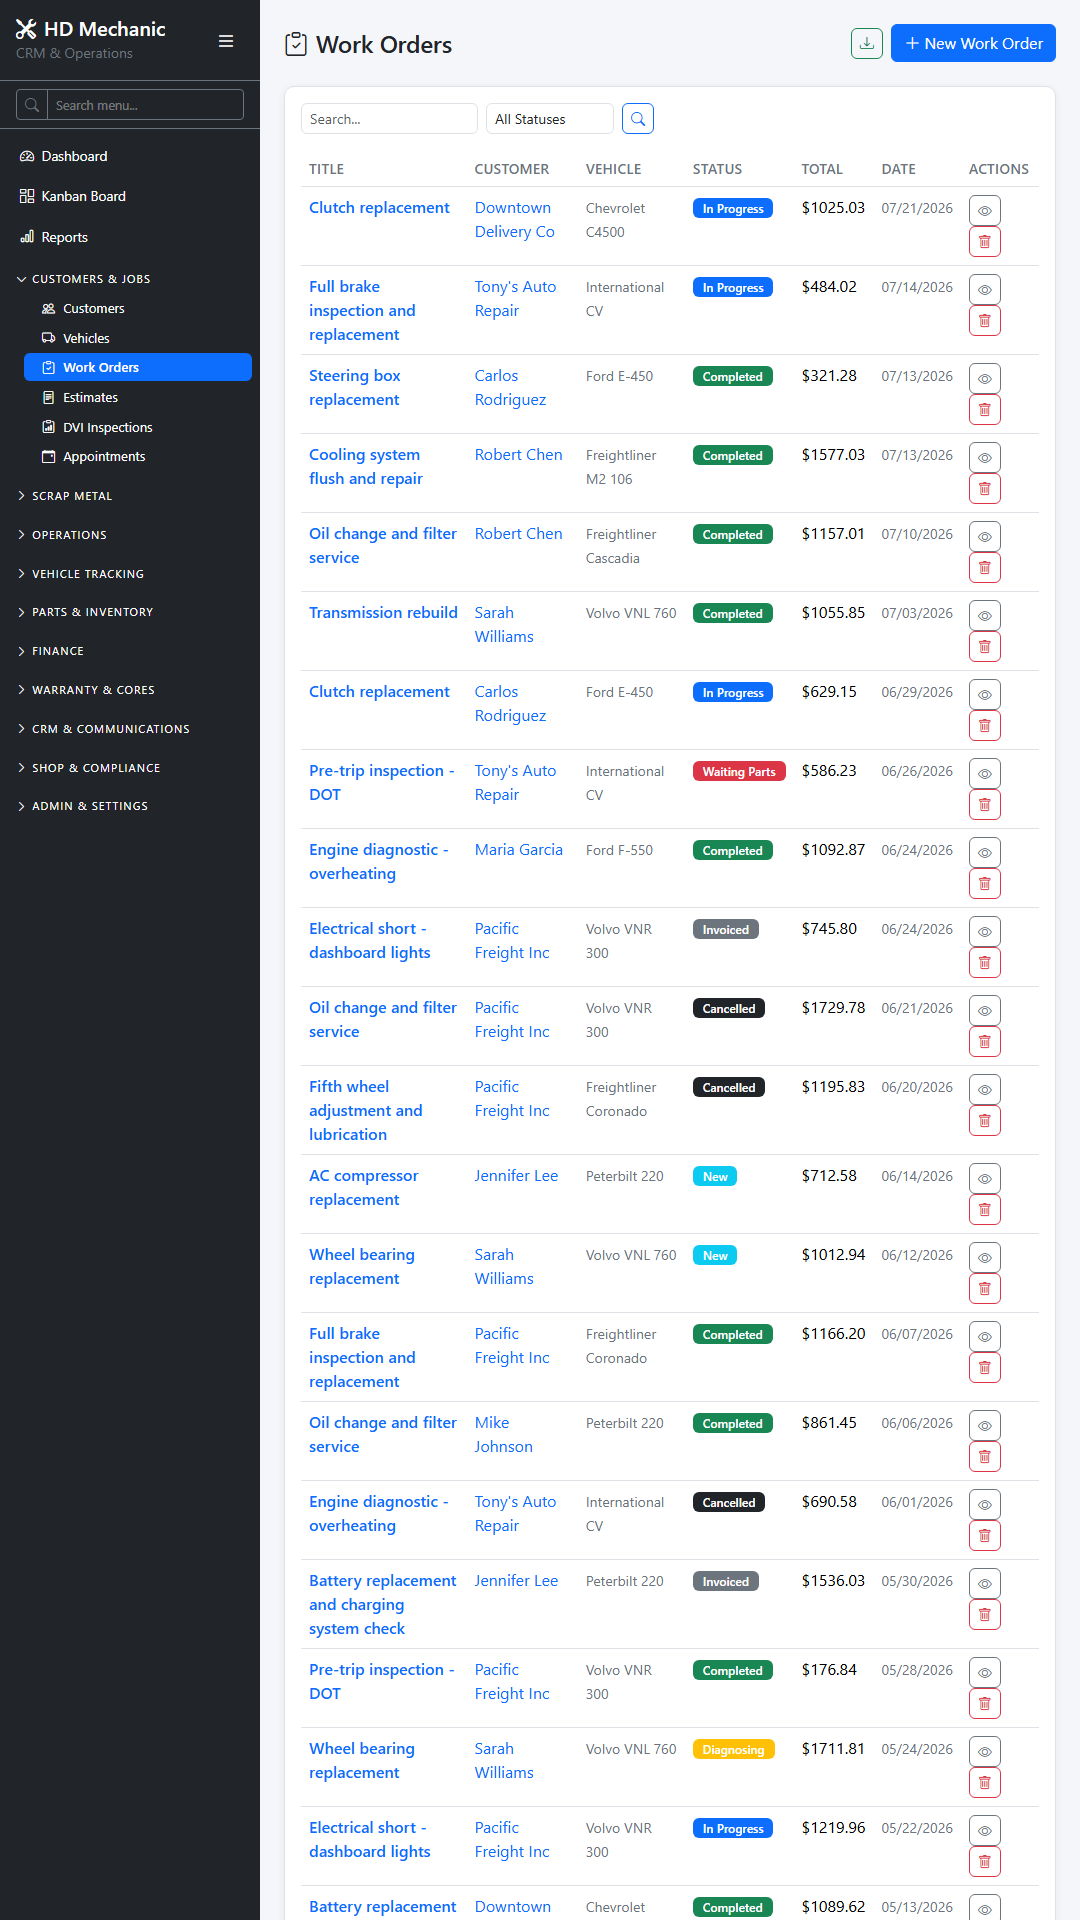
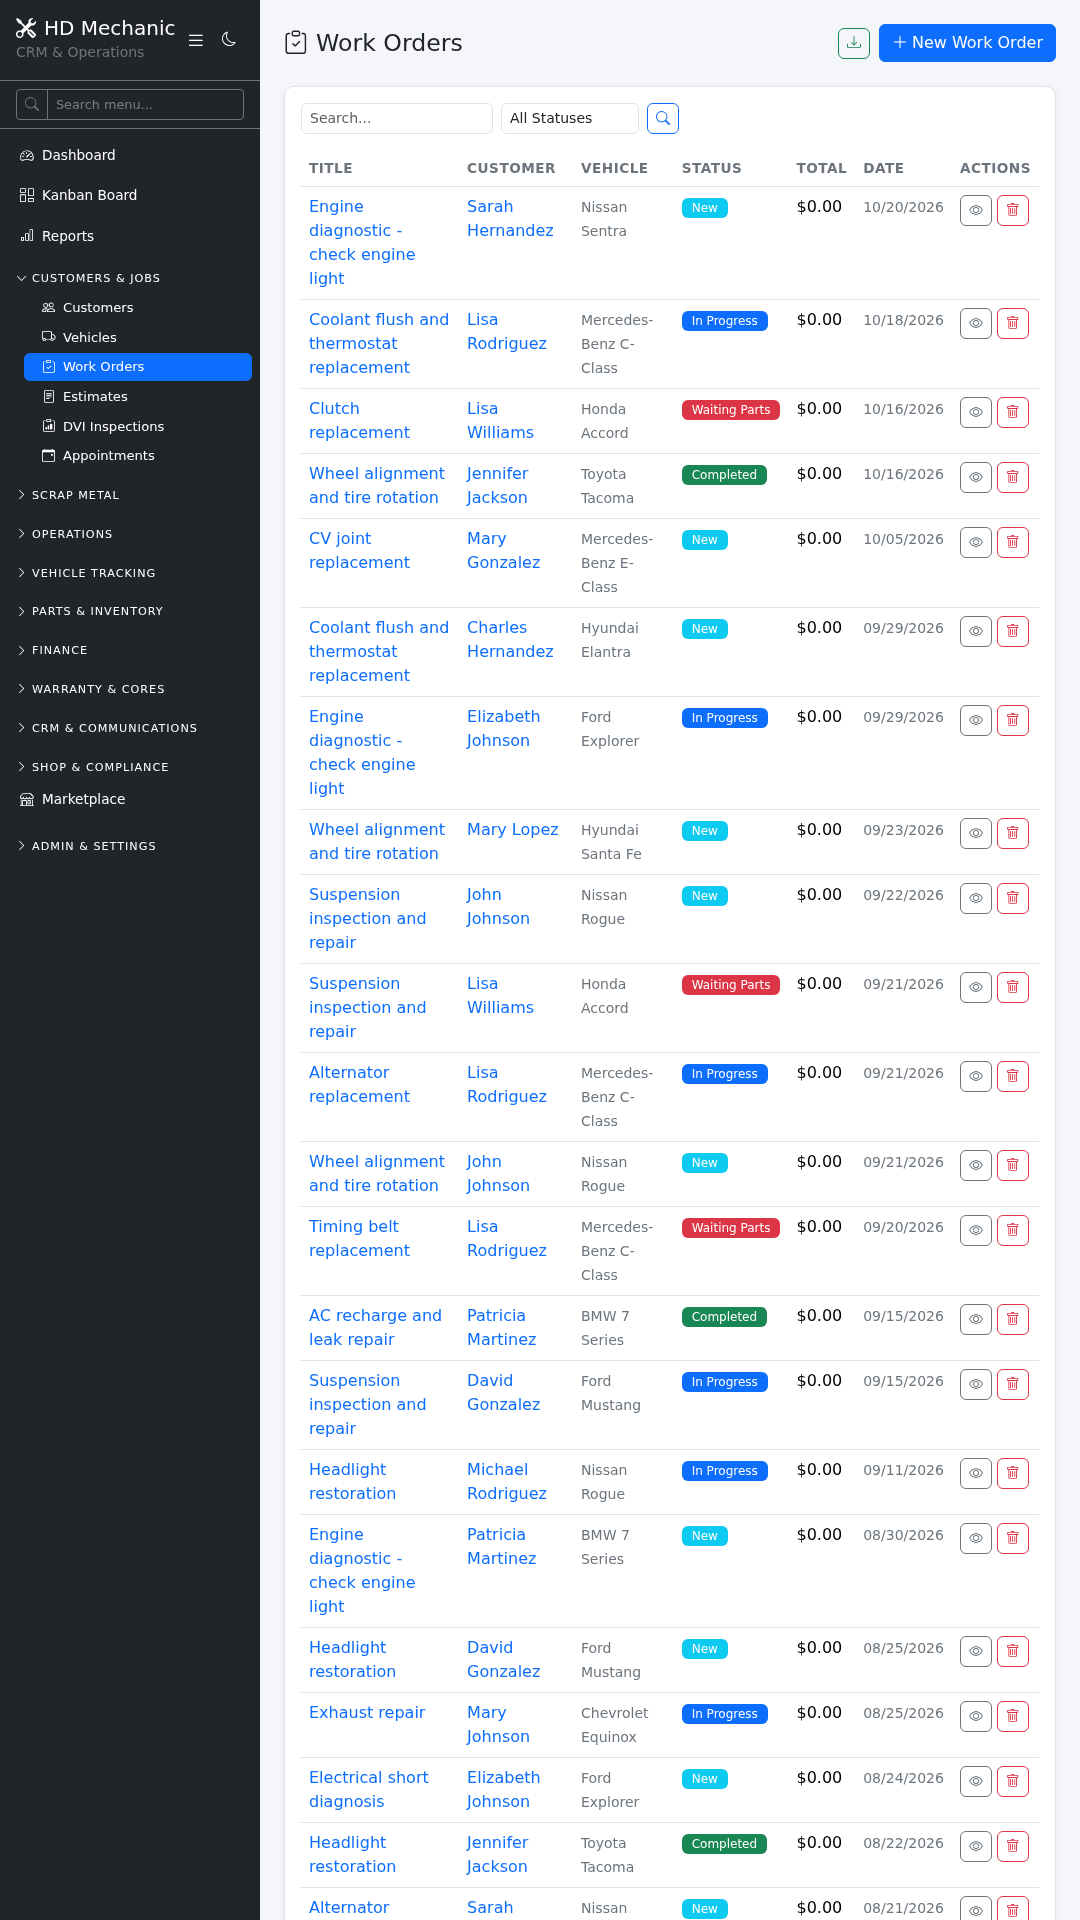
Play store package: assets, listings, submission checklist
- Fresh phone screenshots (1080x1920, 10 pages incl. login, dashboard,
  customers, work orders, scrap, invoices, reports, marketplace) and a
  1024x500 feature graphic, regenerated from a seeded demo instance
- Fix take_screenshots.py routes (/inventory, /scrap-metal, /analytics
  did not exist -> real /parts, /scrap/pickups, /reports, /marketplace)
- STORE_LISTINGS.md: native android/ app is the Play artifact (not the
  legacy Bubblewrap path); live privacy/terms/refund/data-deletion URLs;
  keytool keystore command; full Console flow incl. Play App Signing and
  the >=12-tester x 14-day closed-testing gate for new personal accounts;
  Data Safety declaration draft

diff --git a/take_screenshots.py b/take_screenshots.py
@@ -49,10 +49,11 @@ async def main():
             ("02-customers", "/customers"),
             ("03-vehicles", "/vehicles"),
             ("04-work-orders", "/work-orders"),
-            ("05-inventory", "/inventory"),
-            ("06-scrap-metal", "/scrap-metal"),
+            ("05-parts", "/parts"),
+            ("06-scrap-pickups", "/scrap/pickups"),
             ("07-invoices", "/invoices"),
-            ("08-analytics", "/analytics"),
+            ("08-reports", "/reports"),
+            ("09-marketplace", "/marketplace/"),
         ]
 
         for name, path in pages:

diff --git a/STORE_LISTINGS.md b/STORE_LISTINGS.md
@@ -292,14 +292,64 @@ Unlike competitors charging $100-$600/month, HDMechanicCRM gives you everything 
 - [ ] Content rating questionnaire filled out
 
 ### Google Play Store
-- [ ] Google Play Developer account ($25 one-time fee)
-- [ ] PWA wrapped as TWA using Bubblewrap
-- [ ] Signing key generated and stored securely
-- [ ] AAB file built and tested
-- [ ] Store listing completed with all fields
-- [ ] Closed testing track set up for beta
-- [ ] Internal testing with 3+ testers
-- [ ] Submit for review (typically 3-7 days)
+
+The Play artifact is the native WebView app in `android/` (package
+`com.hdmechanic.crm`) — **not** the Bubblewrap/PWA path, which is legacy.
+Build it with `./gradlew bundleRelease` (see `android/`; requires JDK 17 +
+Android SDK). Purchases (Square) are completed in the external browser —
+the app routes off-site navigations out — so Play Billing is not required.
+
+**Listing URLs (live on the hosted deployment)**
+- Privacy policy: `https://hdmechaniccrm.onrender.com/privacy`
+- Terms: `https://hdmechaniccrm.onrender.com/terms`
+- Refund policy: `https://hdmechaniccrm.onrender.com/refund`
+- Account/data deletion: `https://hdmechaniccrm.onrender.com/data-deletion`
+
+**In-repo assets (screenshots/ + app/static/icons/)**
+- [x] Launcher icon 512x512: `app/static/icons/icon-512.png`
+- [x] Feature graphic 1024x500: `screenshots/feature-graphic.png`
+- [x] Phone screenshots 1080x1920: `screenshots/00-login.png` … `09-marketplace.png`
+      (regenerate anytime: boot the app with `CRM_SEED_DEMO=1`, then
+      `python take_screenshots.py`)
+
+**Release keystore (generate once, keep offline backup!)**
+```bash
+keytool -genkeypair -v -keystore hdmechanic-release.keystore \
+  -alias hdmechanic -keyalg RSA -keysize 2048 -validity 10000
+cp keystore.properties.example keystore.properties  # fill in values
+./gradlew bundleRelease   # signed app-release.aab
+```
+
+**Play Console submission flow**
+- [ ] Google Play Developer account ($25 one-time) + developer identity
+      verification (government ID; organizations need D-U-N-S)
+- [ ] Create app → category Business → free pricing
+- [ ] Upload the release AAB; enroll in **Play App Signing** (Play holds
+      the signing key; your keystore is the upload key)
+- [ ] Store listing: short/full description (above), screenshots,
+      feature graphic, app icon
+- [ ] **Data safety form** (draft below) — declare what the app collects
+- [ ] Content rating questionnaire (IARC) — business app, no special
+      content flags expected
+- [ ] Privacy policy URL + **account deletion URL** (App content page —
+      required for apps with account creation)
+- [ ] Target audience: 18+ (business tool)
+- [ ] **Closed testing: new personal accounts must run a closed test with
+      ≥12 testers for 14 continuous days** before applying for production
+      access — plan for this gate before launch day
+- [ ] After the closed-testing requirement: production release → review
+      (typically 3-7 days for new developers)
+
+**Data safety form draft** (declarations for Play Console)
+| Collected | Examples in this app | Shared | Required? |
+|---|---|---|---|
+| Personal info (email) | account login via the app UI | No | Yes (account functionality) |
+| App activity | in-app page views (own analytics API) | No | Yes (core functionality) |
+| Device IDs | app session ID, crash reports | No | Yes (analytics/crash reporting) |
+| Crash logs | Java stack traces posted to `/api/analytics/crash` | No | Yes (stability) |
+
+Not sold; not shared with third parties; retention: until account deletion
+is requested (`/data-deletion`). Encryption: in transit via HTTPS/TLS.
 
 ### Microsoft Store
 - [ ] Microsoft Partner Center account ($19 one-time fee)
